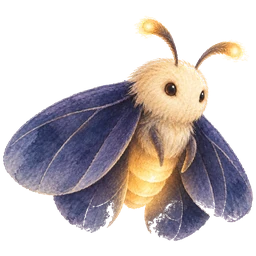
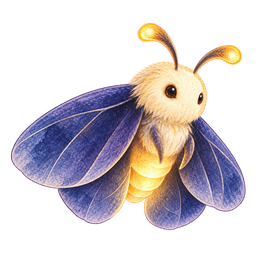
fix(mascot): repair clipped wing contours on the watercolor moth

diff --git a/src/assets/ATTRIBUTION.md b/src/assets/ATTRIBUTION.md
@@ -35,6 +35,12 @@ which is the product described without a screenshot of it.
 - **Modifications**: background cut out to transparency, floor shadows
   removed, cropped and resized to 256px, re-encoded as WebP, by
   `output/moth-12-frame-2026-10-30/pack_mascot.py`.
+- **Watercolor static image update (2026-10-31)**: regenerated with the built-in
+  image generation tool using the original icon and the approved animation
+  sheet's first open-wing resting pose as references, repairing clipped wing
+  contours. Original output and prompt are in
+  `output/moth-watercolor-cleanup-2026-10-31/`. Resized inside a transparent
+  256px square and encoded as lossless WebP; animation sheet unchanged.
 
 ## `mascot/moth-*-sheet.webp`
 
